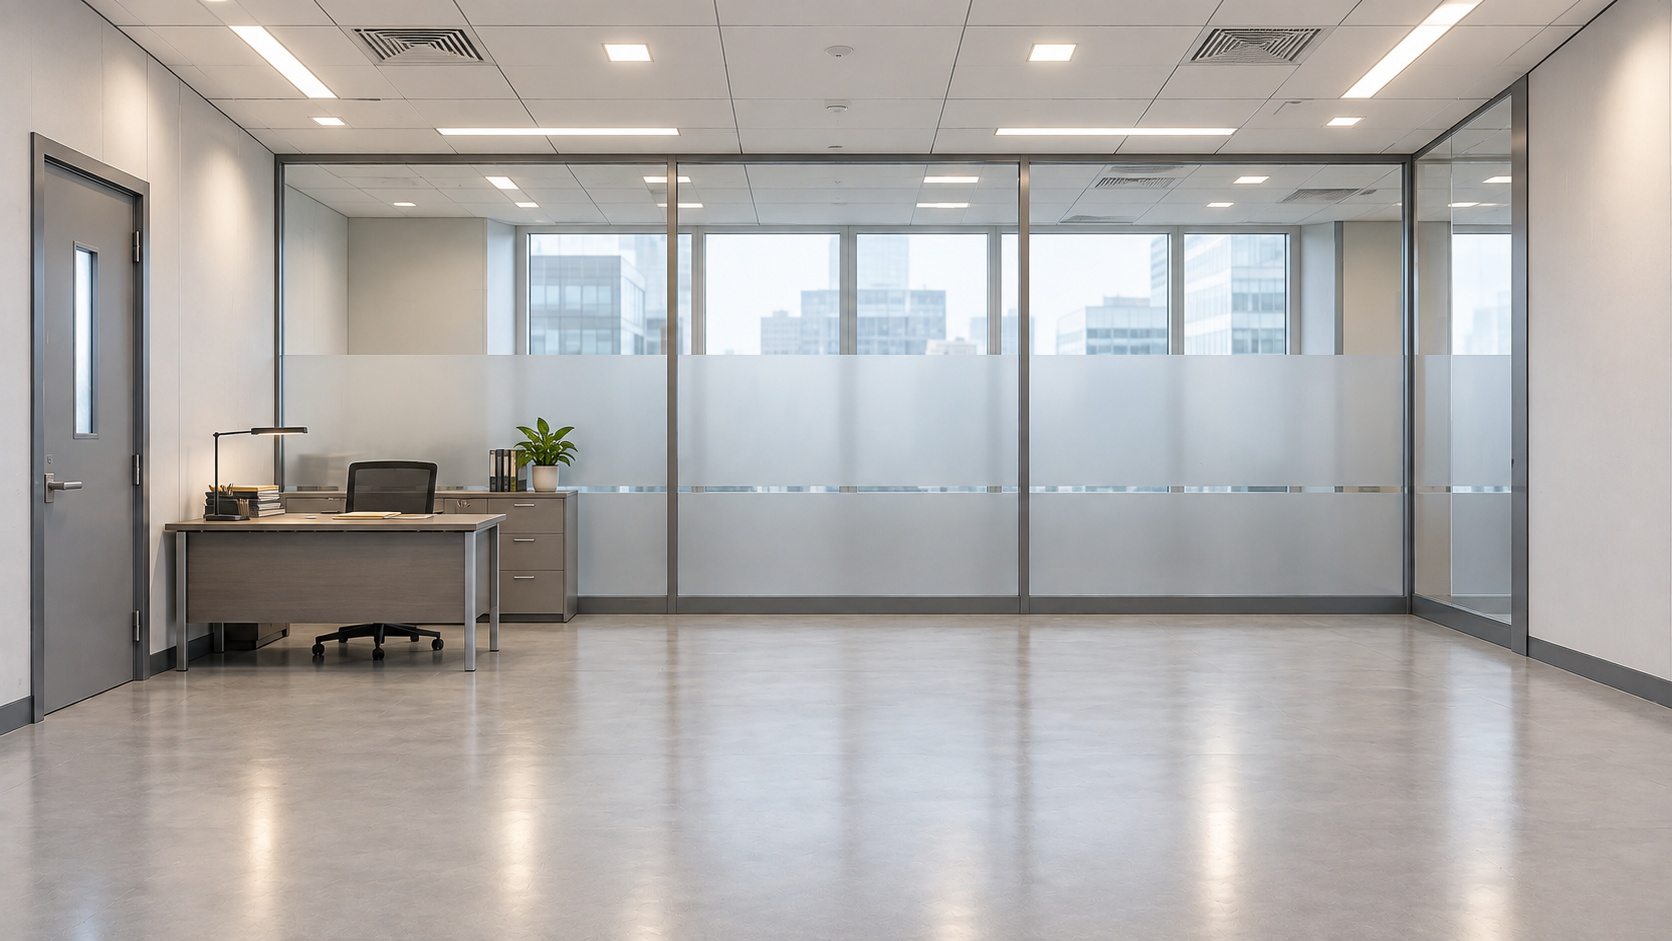
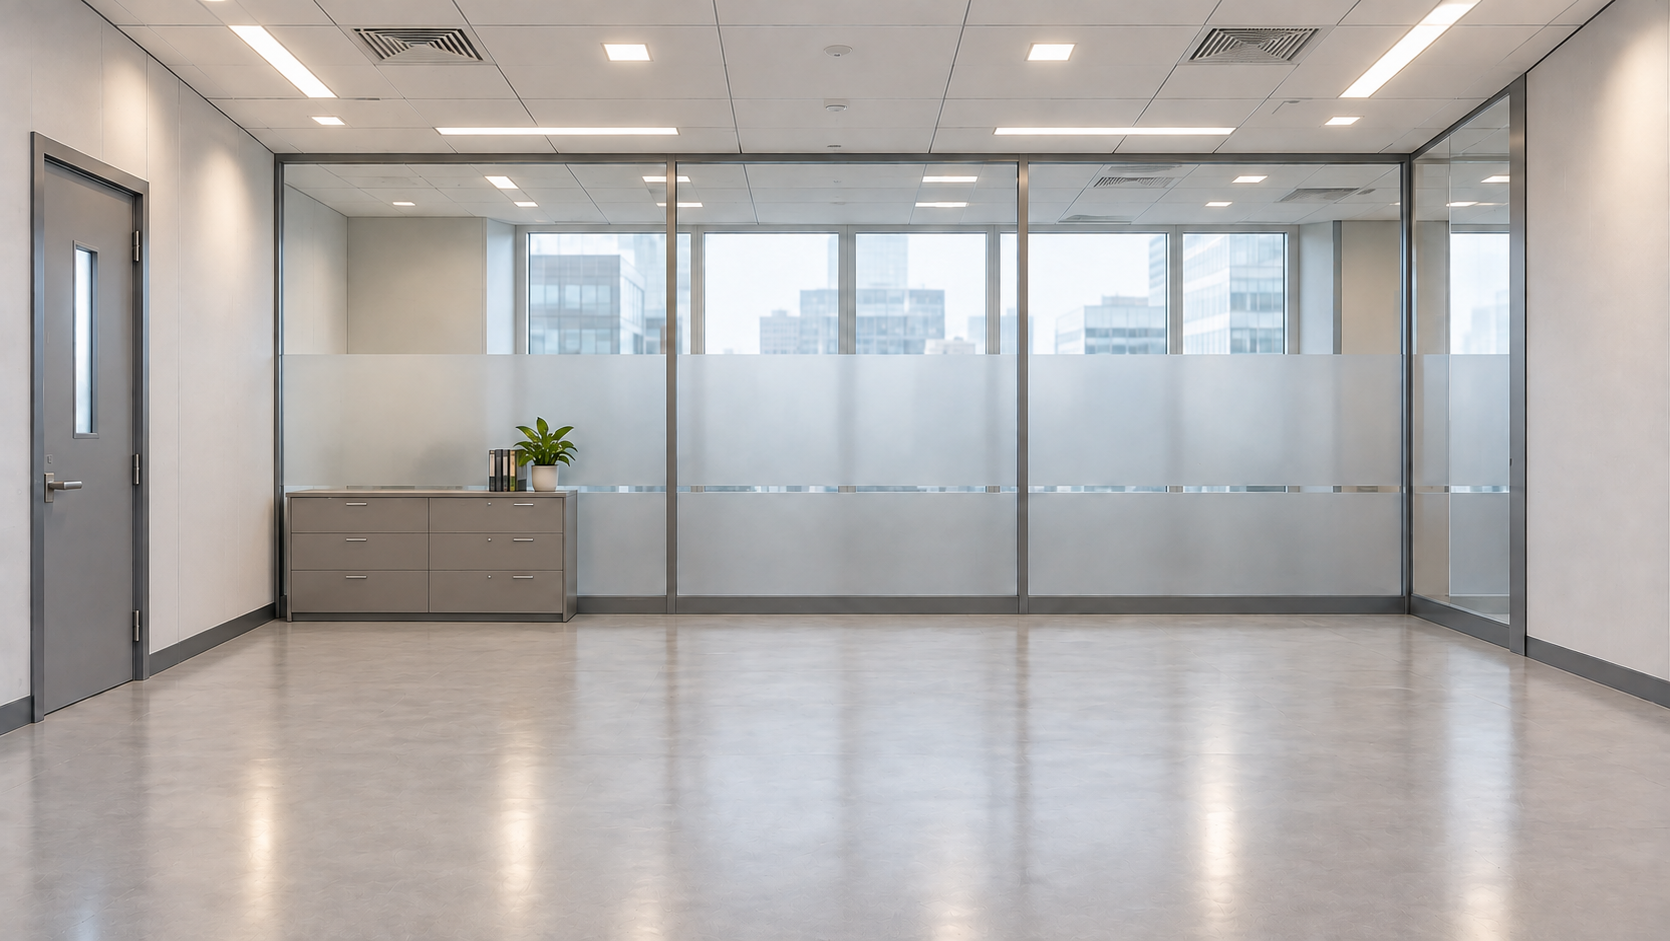
Remove office desk and verify clock appears before door kick

diff --git a/index.html b/index.html
@@ -35,7 +35,7 @@
       <li><button type="button" data-preview="bright" aria-pressed="true"><span class="step-number">01</span><span>暗 → 亮<small>影片播完，接回原本房間</small></span></button></li>
       <li><button type="button" data-preview="ai" aria-pressed="false"><span class="step-number">02</span><span>AI 漸顯<small>電視正中央 · 填滿內框</small></span></button></li>
       <li><button type="button" data-preview="welcome" aria-pressed="false"><span class="step-number">03</span><span>歡迎語音<small>圖形放大、背景漸至全黑</small></span></button></li>
-      <li><button type="button" data-preview="clock" aria-pressed="false"><span class="step-number">04</span><span>顯示碼錶<small>語音播完，顯示持續倒數</small></span></button></li>
+      <li><button type="button" data-preview="clock" aria-pressed="false"><span class="step-number">04</span><span>顯示碼錶<small>先顯示碼錶，再按下一步才踢門</small></span></button></li>
       <li><button type="button" data-preview="door-kick" aria-pressed="false"><span class="step-number">05</span><span>踢門音效<small>碼錶保持顯示，音效播完再繼續</small></span></button></li>
       <li><button type="button" data-preview="card" aria-pressed="false"><span class="step-number">06</span><span>顯示卡片<small>MEMORY ACCESS</small></span></button></li>
       <li><button type="button" data-preview="card-hidden" aria-pressed="false"><span class="step-number">07</span><span>隱藏卡片<small>倒數繼續</small></span></button></li>
